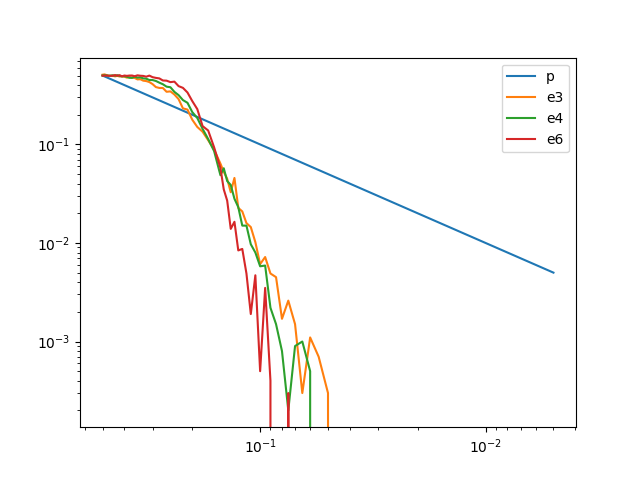
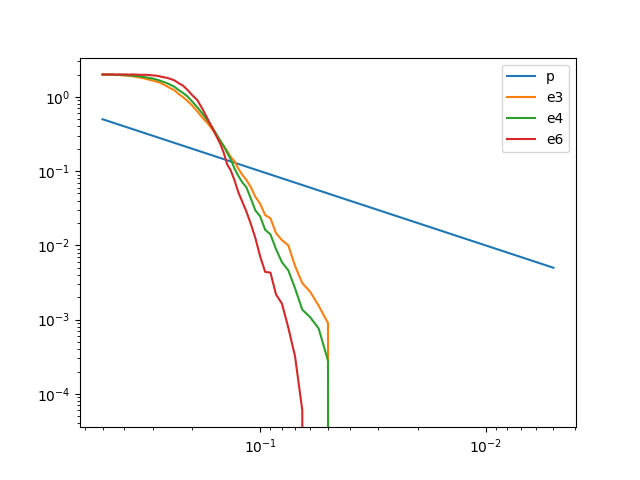
filtered graphic

diff --git a/professional/ele-32/lab3/main.cpp b/professional/ele-32/lab3/main.cpp
@@ -24,41 +24,48 @@ int main() {
 	probabilities.push_back(0.005);
 	std::vector<double> encoderP[3];
 	for (const auto &p : probabilities) {
-		BscCanal canal(p, r);
-
-		std::vector<Encoder> encoders{
-			Encoder(3, std::vector<int>{013, 015, 017}),
-		    Encoder(4, std::vector<int>{025, 033, 037}),
-			Encoder(6, std::vector<int>{0117, 0127, 0155})
-		};
-
-		std::vector<int> info;
-		for (int i = 0; i < 10000; i++) {
-			info.push_back(r->coinFlip());
-		}
-
-		for (auto &e : encoders) {
-			for (int i = 0; i < info.size(); i++) {
-				int output = e.encode(info[i]);
-				std::bitset<3> encoded(output);
-				int receivedOutput = 0;
-				for (int i = 0; i < 3; i++) {
-					int bitOutput = canal.transmit(encoded[i]);
-					receivedOutput += (bitOutput << i);
+		double mean[3] = {};
+		for (int i = 0; i < 20; i++) {
+			BscCanal canal(p, r);
+		
+			std::vector<Encoder> encoders{
+				Encoder(3, std::vector<int>{013, 015, 017}),
+			    Encoder(4, std::vector<int>{025, 033, 037}),
+				Encoder(6, std::vector<int>{0117, 0127, 0155})
+			};
+	
+			std::vector<int> info;
+			for (int i = 0; i < 10000; i++) {
+				info.push_back(r->coinFlip());
+			}
+	
+			for (auto &e : encoders) {
+				for (int i = 0; i < info.size(); i++) {
+					int output = e.encode(info[i]);
+					std::bitset<3> encoded(output);
+					int receivedOutput = 0;
+					for (int i = 0; i < 3; i++) {
+						int bitOutput = canal.transmit(encoded[i]);
+						receivedOutput += (bitOutput << i);
+					}
+					e.decode(receivedOutput);
 				}
-				e.decode(receivedOutput);
+			}
+	
+			for (int i = 0; i < encoders.size(); i++) {
+				std::vector<int> received = encoders[i].getSequence();
+				int errors = 0;
+				for (int j = 0; j < info.size(); j++) {
+					errors += (info[j] ^ received[j]);
+				}
+				mean[i] += (double)errors/info.size();
 			}
 		}
 
 		std::cout << "p " << p << ": ";
-		for (int i = 0; i < encoders.size(); i++) {
-			std::vector<int> received = encoders[i].getSequence();
-			int errors = 0;
-			for (int j = 0; j < info.size(); j++) {
-				errors += (info[j] ^ received[j]);
-			}
-			std::cout << (double)errors/info.size() << " ";
-			encoderP[i].push_back((double)errors/info.size());
+		for (int i = 0; i < 3; i++) {
+			std::cout << mean[i]/5 << " ";
+			encoderP[i].push_back(mean[i]/5);
 		}
 		std::cout << std::endl;
 	}
